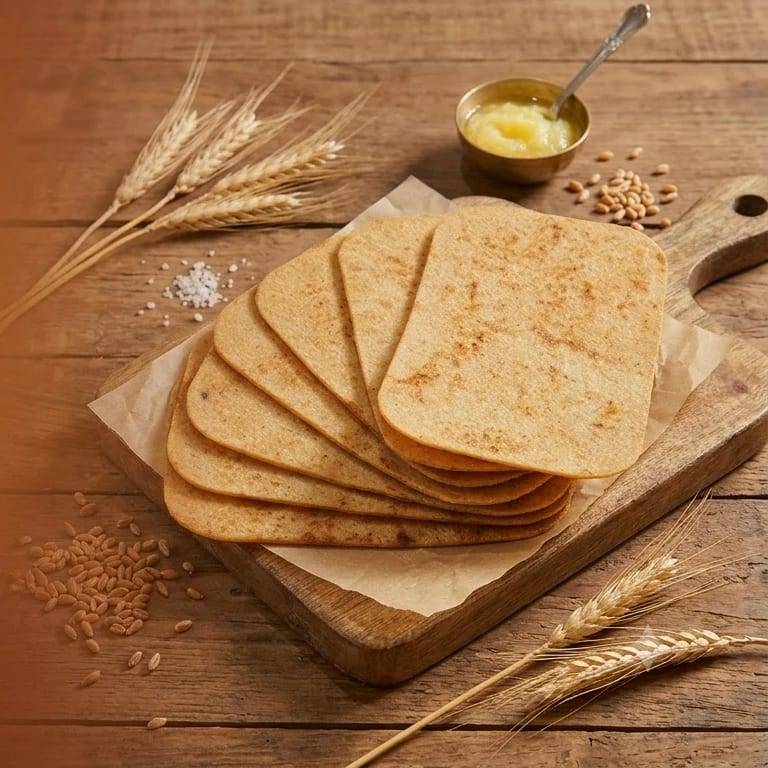
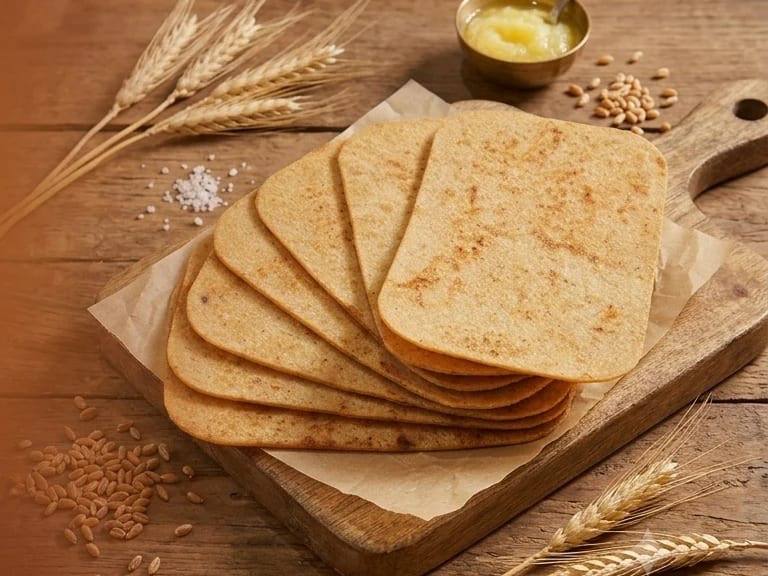
fix(home): review follow-ups — contrast on the band, md breakpoint, phone hero crop
An independent review of the rhythm rebuild (4 lenses, every finding
adversarially re-checked) confirmed nine items; all are addressed here.

- Contrast on the pale-wheat band: Eyebrow gains a `deep` (cocoa) tone
  used for "Our story" / "The craft"; the craft head-link is cocoa; stat
  labels go ink-soft; the step badge is cocoa on gold; accent-card body
  is full cream. Espresso on card was 4.17:1, ink-muted 3.81:1. The
  Khakhra theme test now asserts cocoa and ink-soft on card.
- Focus ring on the band: FOCUS_RING_ON_CARD (ink ring, card offset)
  for the story pill and the craft link — gold on card was under 3:1.
- Outline: step titles are h4 under the new h3 sub-head.
- Phone rail: scroll-pl-5 so snapped cards keep the 20px gutter.
- Hero eyebrow claims sit in one wrapper span (even separators) and
  split on either bullet glyph; "All khakhra →" and "View all →" both
  drop under their titles on phones.
- The 404 drip keyframe gets its 26px back (collateral of the reveal
  edit); only the reveal carries 16px.
- Phone hero: the frame is 4:3, so both packs' hero-mobile.jpg are
  re-exported at 4:3 (768×576, 1254×940 — the same centre crop
  object-cover showed, 25% fewer bytes) and the admin hint says so.
- packages/ui tokens declare --breakpoint-md: 768px. The sm/lg/xl tiers
  were in px while md stayed at Tailwind's 48rem default, so the
  compiler could not order them and every lg: rule landed before md: —
[…]

diff --git a/apps/web/src/app/(storefront)/page.tsx b/apps/web/src/app/(storefront)/page.tsx
@@ -126,10 +126,13 @@ function GiftIcon({ name }: { name: GiftIconName }): ReactNode {
 /** Shared focus treatment for bespoke (non-`Button`) interactive elements. */
 const FOCUS_RING =
   "focus-visible:outline-none focus-visible:ring-2 focus-visible:ring-gold focus-visible:ring-offset-2 focus-visible:ring-offset-bg";
+/** The same ring on the pale-wheat band, where gold-on-card falls under 3:1. */
+const FOCUS_RING_ON_CARD =
+  "focus-visible:outline-none focus-visible:ring-2 focus-visible:ring-ink focus-visible:ring-offset-2 focus-visible:ring-offset-card";
 
 /** Premium pill CTAs — the gifting section's "Shop gift packs" and the story band's outline. */
 const PRIMARY_CTA = `rounded-pill bg-ink px-[30px] py-4 font-body text-[15.5px] font-bold text-cream shadow-lift transition-[transform,background-color] duration-[var(--duration-base)] ease-brand hover:-translate-y-0.5 hover:bg-ink-hover motion-reduce:transform-none ${FOCUS_RING}`;
-const SECONDARY_CTA = `rounded-pill border-[1.5px] border-ink/25 px-[30px] py-4 font-body text-[15.5px] font-bold text-ink transition-colors duration-[var(--duration-base)] hover:border-ink hover:bg-cream ${FOCUS_RING}`;
+const SECONDARY_CTA = `rounded-pill border-[1.5px] border-ink/25 px-[30px] py-4 font-body text-[15.5px] font-bold text-ink transition-colors duration-[var(--duration-base)] hover:border-ink hover:bg-cream ${FOCUS_RING_ON_CARD}`;
 /**
  * One seam everywhere. A cream section owns only the space ABOVE itself
  * (72px desktop / 56px phone) — never a bottom padding, so neighbours cannot
@@ -143,7 +146,9 @@ const BAND = "mt-14 lg:mt-[72px]";
 const BAND_INNER = "mx-auto max-w-[1240px] px-5 py-12 sm:px-8 lg:py-16";
 /** Section header row: eyebrow + title on the left, the section's next step on the right. */
 const SECTION_HEAD = "mb-6 flex flex-wrap items-end justify-between gap-x-6 gap-y-3 lg:mb-8";
-const HEAD_LINK = `flex items-center gap-1.5 rounded-sm font-body text-[14.5px] font-bold transition-[gap] hover:gap-2.5 ${FOCUS_RING}`;
+const HEAD_LINK_BASE = "flex items-center gap-1.5 rounded-sm font-body text-[14.5px] font-bold transition-[gap] hover:gap-2.5 max-sm:basis-full";
+const HEAD_LINK = `${HEAD_LINK_BASE} ${FOCUS_RING}`;
+const HEAD_LINK_ON_CARD = `${HEAD_LINK_BASE} ${FOCUS_RING_ON_CARD}`;
 
 /** DM-Mono eyebrow with a growing rule — the section signature. */
 function Eyebrow({
@@ -151,10 +156,13 @@ function Eyebrow({
   tone = "espresso",
 }: {
   children: ReactNode;
-  tone?: "espresso" | "gold";
+  /** `deep` (cocoa) keeps AA on the pale-wheat band, where espresso falls to 4.2:1. */
+  tone?: "espresso" | "gold" | "deep";
 }): ReactNode {
-  const color = tone === "gold" ? "text-gold-soft" : "text-espresso";
-  const rule = tone === "gold" ? "bg-gold-soft/70" : "bg-espresso";
+  const color =
+    tone === "gold" ? "text-gold-soft" : tone === "deep" ? "text-cocoa" : "text-espresso";
+  const rule =
+    tone === "gold" ? "bg-gold-soft/70" : tone === "deep" ? "bg-cocoa" : "bg-espresso";
   return (
     <div
       className={`flex items-center gap-[13px] font-mono text-eyebrow font-medium uppercase ${color}`}
@@ -211,7 +219,7 @@ export default async function HomePage() {
 
   /**
    * Hero photography — two art-directed crops: a 2.51:1 frame for the overlay
-   * layout and a 1:1 frame for the stacked mobile band. The owner's uploads
+   * layout and a 4:3 frame for the stacked phone band. The owner's uploads
    * (storefront.hero_image_url / _mobile_url) win; otherwise the crops bundled
    * with the brand pack; a pack without photography degrades to the gradient
    * field below. One configured URL serves both crops.
@@ -273,13 +281,16 @@ export default async function HomePage() {
             <div className="mb-6">
               <Eyebrow tone="gold">
                 {/* Three claims on wide screens; the third wraps a 375px line,
-                    so phones show two. Layout only — the copy is unchanged. */}
-                {home.hero.eyebrow.split(" • ").map((claim, index) => (
-                  <span key={claim} className={index >= 2 ? "max-sm:hidden" : undefined}>
-                    {index > 0 ? <span aria-hidden="true"> • </span> : null}
-                    {claim}
-                  </span>
-                ))}
+                    so phones show two. One wrapper span keeps the eyebrow's
+                    rule + text as two flex items. Layout only — copy unchanged. */}
+                <span>
+                  {home.hero.eyebrow.split(/\s[•·]\s/).map((claim, index) => (
+                    <span key={claim} className={index >= 2 ? "max-sm:hidden" : undefined}>
+                      {index > 0 ? <span aria-hidden="true"> • </span> : null}
+                      {claim}
+                    </span>
+                  ))}
+                </span>
               </Eyebrow>
             </div>
             <h1 className="mb-5 text-[24px] leading-[1.2] font-medium text-balance whitespace-pre-line text-field-ink md:text-[28px] md:leading-[1.15] lg:text-[34px]">
@@ -331,7 +342,9 @@ export default async function HomePage() {
       {/* ==================== TRUST / REASSURANCE ==================== */}
       {/* Phones: a slim three-up strip (icon over a short title) so the
           products stay within the first two screens; the body sentence is
-          tablet-and-up, where the three cards sit side by side. */}
+          tablet-and-up, where the three cards sit side by side. Its phone
+          seam is 40px rather than the page's 56: the marquee's hairline above
+          it supplies the rest, and it keeps the first products on screen two. */}
       <section
         aria-label={home.trust.ariaLabel}
         className="mx-auto max-w-[1240px] px-5 pt-10 sm:px-8 sm:pt-14 lg:pt-[72px]"
@@ -514,7 +527,7 @@ export default async function HomePage() {
             </div>
             <div>
               <div className="mb-2.5">
-                <Eyebrow>{home.story.eyebrow}</Eyebrow>
+                <Eyebrow tone="deep">{home.story.eyebrow}</Eyebrow>
               </div>
               <h2
                 id="home-story"
@@ -533,7 +546,7 @@ export default async function HomePage() {
                     <dt className="font-display text-[28px] leading-none text-ink sm:text-[32px]">
                       {stat.value}
                     </dt>
-                    <dd className="mt-1.5 font-mono text-[11px] tracking-[0.12em] text-ink-muted uppercase">
+                    <dd className="mt-1.5 font-mono text-[11px] tracking-[0.12em] text-ink-soft uppercase">
                       {stat.label}
                     </dd>
                   </div>
@@ -551,7 +564,7 @@ export default async function HomePage() {
           <div className="mt-10 flex flex-wrap items-end justify-between gap-x-6 gap-y-3 lg:mt-14">
             <div className="max-w-[52ch]">
               <div className="mb-2.5">
-                <Eyebrow>{home.process.eyebrow}</Eyebrow>
+                <Eyebrow tone="deep">{home.process.eyebrow}</Eyebrow>
               </div>
               <h3
                 id="home-process"
@@ -568,13 +581,13 @@ export default async function HomePage() {
             {home.process.cta ? (
               <Link
                 href={home.process.cta.href as Route}
-                className={`${HEAD_LINK} text-espresso`}
+                className={`${HEAD_LINK_ON_CARD} text-cocoa`}
               >
                 {home.process.cta.label} <span aria-hidden="true">→</span>
               </Link>
             ) : null}
           </div>
-          <ol className="-mx-5 mt-6 flex snap-x snap-mandatory gap-3 overflow-x-auto px-5 pb-2 [scrollbar-width:none] [&::-webkit-scrollbar]:hidden sm:mx-0 sm:grid sm:grid-cols-2 sm:gap-6 sm:overflow-visible sm:px-0 sm:pb-0 lg:mt-8 lg:grid-cols-4 lg:gap-5">
+          <ol className="-mx-5 mt-6 flex snap-x snap-mandatory gap-3 overflow-x-auto scroll-pl-5 px-5 pb-2 [scrollbar-width:none] [&::-webkit-scrollbar]:hidden sm:mx-0 sm:grid sm:grid-cols-2 sm:gap-6 sm:overflow-visible sm:scroll-pl-0 sm:px-0 sm:pb-0 lg:mt-8 lg:grid-cols-4 lg:gap-5">
             {home.process.steps.map((movement, index) => {
               const isLast = index === home.process.steps.length - 1;
               // The rail runs card to card. It must stop at the end of each
@@ -599,7 +612,7 @@ export default async function HomePage() {
                       aria-hidden="true"
                       className={`absolute top-1/2 right-[-12px] left-8 h-0 border-t-2 border-dotted border-espresso/30 sm:right-[-24px] lg:right-[-20px] ${railClass}`}
                     />
-                    <span className="relative grid h-7 w-7 place-items-center rounded-full bg-gold-soft font-mono text-[11px] font-medium tracking-[0.08em] text-espresso">
+                    <span className="relative grid h-7 w-7 place-items-center rounded-full bg-gold-soft font-mono text-[11px] font-medium tracking-[0.08em] text-cocoa">
                       {movement.step}
                     </span>
                   </div>
@@ -647,13 +660,13 @@ export default async function HomePage() {
                         )}
                       </div>
                     )}
-                    <h3
+                    <h4
                       className={`mb-2 font-display text-[22px] leading-tight font-normal sm:text-[24px] ${accent ? "text-cream" : "text-ink"}`}
                     >
                       {movement.title}
-                    </h3>
+                    </h4>
                     <p
-                      className={`font-body text-[14px] leading-[1.6] ${accent ? "text-cream/85" : "text-ink-soft"}`}
+                      className={`font-body text-[14px] leading-[1.6] ${accent ? "text-cream" : "text-ink-soft"}`}
                     >
                       {movement.body}
                     </p>

diff --git a/apps/web/src/components/catalog/ProductCard.tsx b/apps/web/src/components/catalog/ProductCard.tsx
@@ -152,7 +152,7 @@ export function ProductCard({
             // The row keeps its height on phones even without a rating so the
             // price baselines of neighbouring tiles line up; the "New" label
             // is desktop-only there (the photo badge already says it).
-            "mt-1.5 flex min-h-[18px] items-center gap-1.5 sm:mt-2.5 sm:mb-[14px]",
+            "mt-1.5 flex min-h-[18px] items-center gap-1.5 leading-[18px] sm:mt-2.5 sm:mb-[14px]",
             product.ratingCount > 0 ? "" : "max-sm:[&>span]:hidden",
           )}
         >

diff --git a/apps/web/src/components/chrome/RevealInit.tsx b/apps/web/src/components/chrome/RevealInit.tsx
@@ -7,7 +7,7 @@ const NEVER_HIDE_FALLBACK_MS = 1700;
 
 /**
  * `_enhance` section fade-ups from the prototype: any element carrying
- * `data-reveal` starts at opacity 0 / translateY(26px) (CSS in globals.css,
+ * `data-reveal` starts at opacity 0 / translateY(16px) (CSS in globals.css,
  * gated behind the `.kk-js` class this component sets) and transitions in
  * when it enters the viewport.
  *

diff --git a/apps/web/src/brands/khakhra/theme.test.ts b/apps/web/src/brands/khakhra/theme.test.ts
@@ -42,6 +42,8 @@ const AA_PAIRS: readonly [string, string][] = [
   ["--color-ink-body", "--color-cream"],
   ["--color-ink-soft", "--color-cream"],
   ["--color-ink", "--color-card"],
+  ["--color-ink-soft", "--color-card"],
+  ["--color-cocoa", "--color-card"],
   ["--color-ink-body", "--color-surface"],
   ["--color-field-ink", "--color-field"],
   ["--color-field-ink", "--color-field-light"],

diff --git a/apps/web/src/lib/admin/settings-schema.ts b/apps/web/src/lib/admin/settings-schema.ts
@@ -372,7 +372,7 @@ export const SETTINGS_CATALOG: readonly SettingField[] = [
     label: 'Home hero image (mobile)',
     type: 'url',
     media: true,
-    hint: 'Square 1:1 crop for the stacked mobile hero. Blank = the brand pack’s photo.',
+    hint: '4:3 crop for the stacked phone hero. Blank = the brand pack’s photo.',
     default: '',
   },
   {

diff --git a/packages/ui/src/tokens.css b/packages/ui/src/tokens.css
@@ -66,6 +66,7 @@
 
   /* ---- Breakpoints (mobile-first, authored at 360px) ---- */
   --breakpoint-sm: 640px;
+  --breakpoint-md: 768px; /* declared so all tiers share a unit and sort sm<md<lg<xl */
   --breakpoint-lg: 1024px;
   --breakpoint-xl: 1280px;
 

diff --git a/apps/web/src/app/globals.css b/apps/web/src/app/globals.css
@@ -265,7 +265,7 @@ a {
     opacity: 1;
   }
   100% {
-    transform: translateY(16px) scaleY(1.15);
+    transform: translateY(26px) scaleY(1.15);
     opacity: 0;
   }
 }
